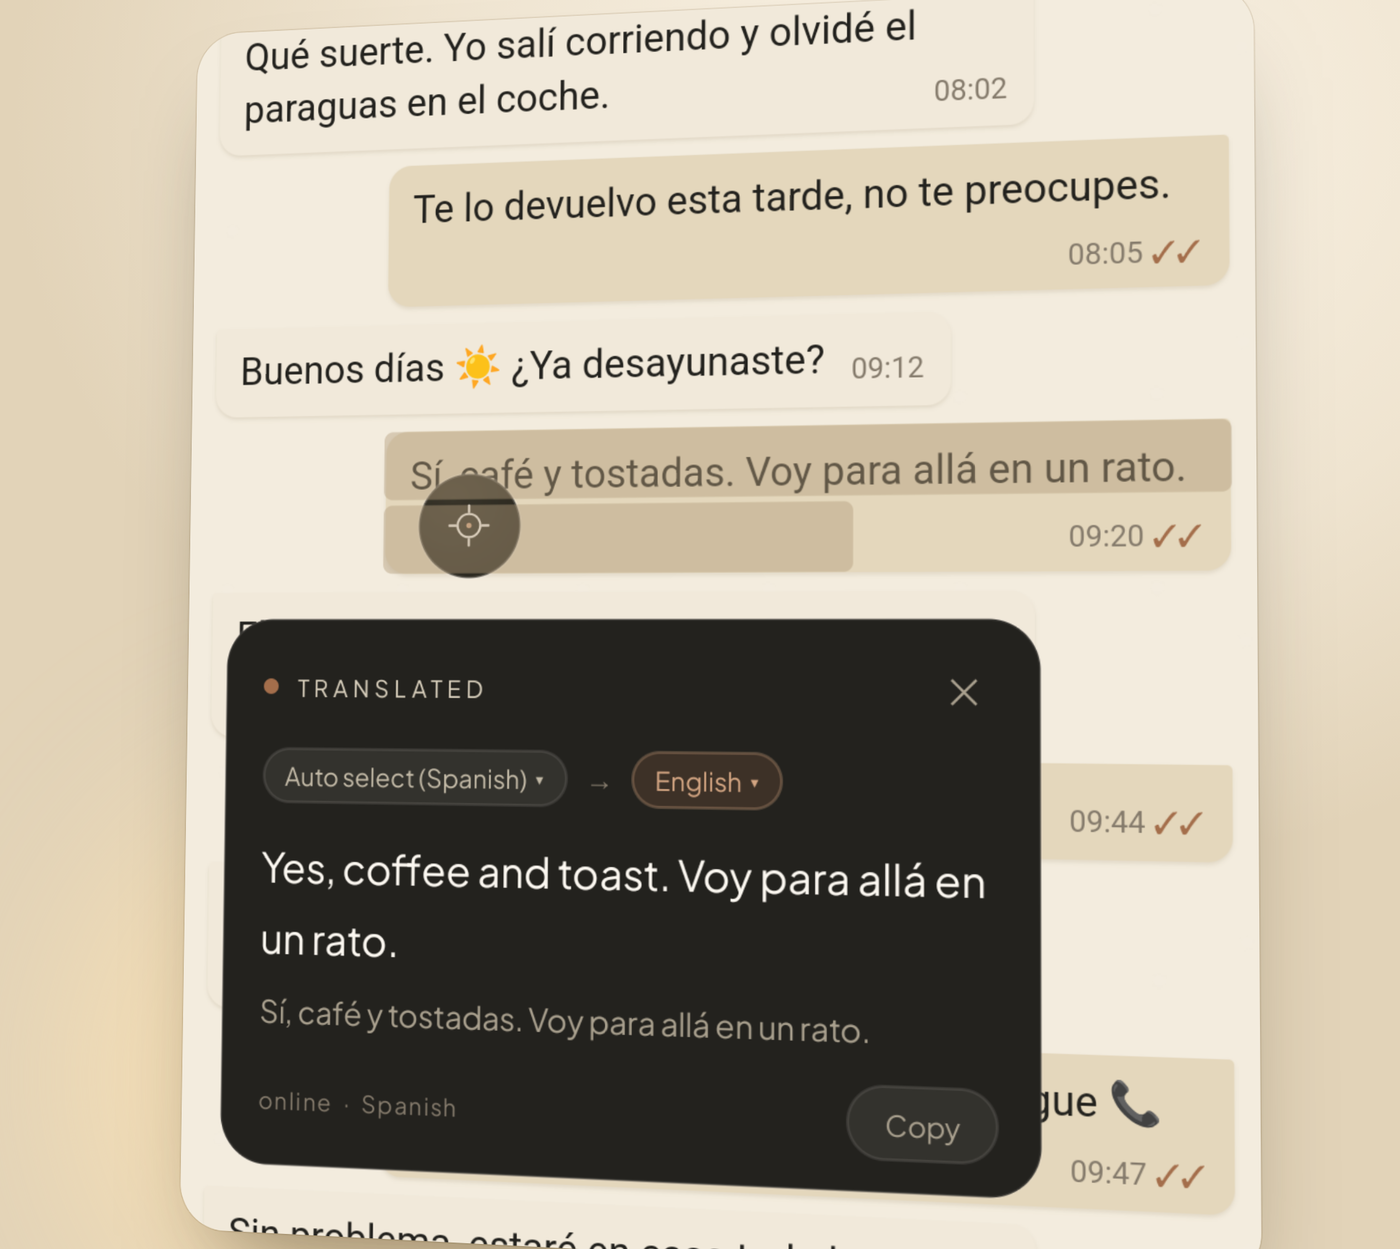
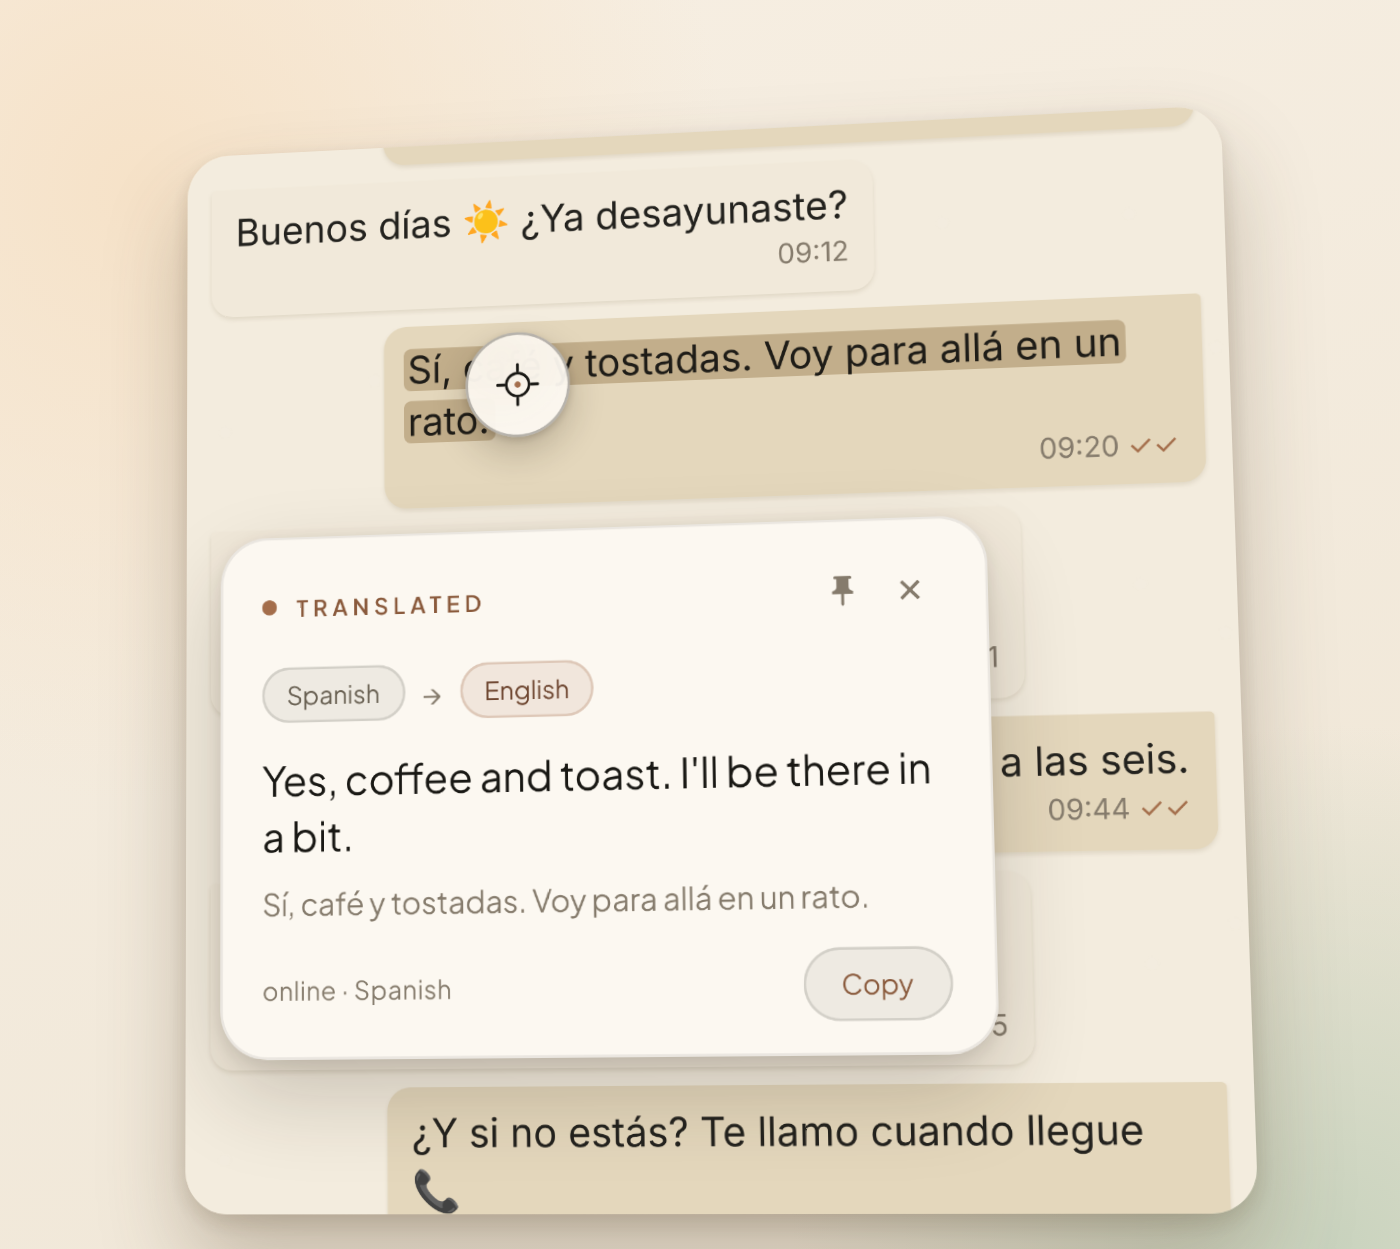
Redraw the README's lens shots on an Android phone with the new light card (#17)
The mockups still showed the dark card, an iPhone frame with its status
bar, and the old coloured call icons in the demo chat. They now use the
demo chat as the app ships it (one-colour line icons), the light card the
lens opens today, and a plain Android frame with no status bar. The app's
own screens move into one framed row, and the text calls the wash sand
and the accent clay instead of mint, which the app no longer draws.

diff --git a/README.md b/README.md
@@ -29,17 +29,17 @@ Lucid is not a split-screen translator and not a screenshot tool. It is a small 
 
 ## 🧭 How it works
 
-<img src="docs/screenshots/how-it-works.png" alt="Three steps: the lens resting on a chat message, the card translating it, then the translated card beside the mint-highlighted line" width="900" />
+<img src="docs/screenshots/how-it-works.png" alt="Three steps: the lens resting on a chat message, the card translating it, then the translated card beside the washed line" width="900" />
 
 1. **Drag it anywhere.** A small lens floats over every app — no split screen, no picking an app, no screenshot button. Whatever is under it when you let go is what it reads: the whole sentence, not just the word the lens happens to sit on.
 2. **It reads in place.** The words come from Android's accessibility tree, not from the framebuffer: the exact string plus the bounds of every character, which is why the highlight can sit on the glyphs instead of a rectangle around them.
-3. **The translation arrives beside it.** The line it read is washed in mint, one band per line, and the card holds the meaning with the language on each side. A press anywhere else takes both away — and the touch still reaches the app underneath.
+3. **The translation arrives beside it.** The line it read is washed in sand, one band per line, and the card holds the meaning with the language on each side. A press anywhere else takes both away — and the touch still reaches the app underneath.
 
 ## ✨ Features
 
 - **Reads the text, not the pixels** — it asks Android's accessibility tree what is at the point under the lens, so the highlight sits exactly on the words and no screen recording is involved.
 - **Works over any app** — chat apps, browsers, PDFs, settings, even a game's UI: if the app publishes text, the lens reads it.
-- **Translates in place** — the card opens beside the text you pointed at, with the read sentence washed in mint, one band per line, ending where the sentence ends.
+- **Translates in place** — the card opens beside the text you pointed at, with the read sentence washed in sand, one band per line, ending where the sentence ends.
 - **Touch anywhere and it is gone** — the card and the highlight clear together, and the touch still reaches the app underneath. That holds mid-read too: pressing outside drops the read instead of making you wait for an answer you no longer want.
 - **Tap for languages** — the lens opens the language list; the pick is saved for everything it reads next. A tap never reads.
 - **Long-press to pause** — the lens fades to a ghost until you long-press again.
@@ -75,25 +75,36 @@ Then press **Start the lens**.
 
 ## 🖼 Screenshots
 
-| The lens on a message — the card holds the translation | The app: the lens, and the pages behind it |
-| --- | --- |
-| <img src="docs/screenshots/chat.png" alt="Lucid's lens on a Spanish chat message with the English translation card open" width="420" /> | <img src="docs/screenshots/home-light.png" alt="Lucid's home screen: auto-translate, engine and offline-only switches, then offline models and translation history below them" width="420" /> |
-| **Tap the lens — the language list, saved for what comes next** | **Long-press — the lens pauses to a ghost until you wake it** |
-| <img src="docs/screenshots/languages.png" alt="The language picker open over a chat, listing English, Spanish, French, German, Portuguese, Italian and Dutch" width="420" /> | *A tap opens this list and saves the pick for everything the lens reads next; a long-press parks the lens until you long-press it again.* |
+<table>
+  <tr>
+    <td align="center" width="50%"><b>The lens on a message</b><br><sub>The card holds the translation, the read line is washed</sub></td>
+    <td align="center" width="50%"><b>Tap the lens</b><br><sub>The language list, saved for everything it reads next</sub></td>
+  </tr>
+  <tr>
+    <td><img src="docs/screenshots/chat.png" alt="Lucid's lens on a Spanish chat message with the English translation card open beside it" /></td>
+    <td><img src="docs/screenshots/languages.png" alt="The language list open over a chat: English ticked, then Español, Deutsch, Français, Italiano and Português" /></td>
+  </tr>
+</table>
 
-**First run** — one screen and one tap before the lens can float:
+<p align="center"><sub>A long-press parks the lens as a ghost until you long-press it again.</sub></p>
 
-| Welcome — tap the lens to begin | The same home screen at night |
-| --- | --- |
-| <img src="docs/screenshots/welcome.png" alt="Lucid's welcome screen: the lens mark inside a breathing ring, with Tap the lens to begin under it" width="420" /> | <img src="docs/screenshots/home-dark.png" alt="Lucid's home screen in the dark palette, with the same lens switches and pages" width="420" /> |
+**The app** — one screen to start, every switch in one place, light or dark by hand:
+
+<p align="center">
+  <img src="docs/screenshots/app-screens.png" alt="Three phones: Lucid's welcome screen, the home screen in the light palette, and the same home screen at night" width="900" />
+</p>
 
 **Closer in** — the wash covers exactly the line that was read, and the card's footer says which engine answered:
 
-<img src="docs/screenshots/close-up.png" alt="Close-up of the lens on a highlighted Spanish line and the translation card with its online · Spanish footer" width="600" />
+<p align="center">
+  <img src="docs/screenshots/close-up.png" alt="Close-up of the lens on a washed Spanish line and the translation card with its online · Spanish footer" width="620" />
+</p>
 
 **Two surfaces at once** — the app behind, a translated chat in front:
 
-<img src="docs/screenshots/duo.png" alt="Lucid's start screen and a chat with the translation card, on two phones" width="740" />
+<p align="center">
+  <img src="docs/screenshots/duo.png" alt="Lucid's home screen and a chat with the translation card, on two phones" width="760" />
+</p>
 
 ## 🎯 How it reads your screen
 
@@ -126,7 +137,7 @@ The engine hands back the reading of the whole sentence in Latin letters (`Kono 
 
 The respelling is a conversion, not a dictionary: particles are matched by sound (は is spoken わ) and long vowels spelled out (ō → おう, so 学校 → がっこう). It knows that "nihon" is にほん, never that 日本 is read that way. On-device mode publishes no reading at all, so the card is plain there — this needs **ENGINE: Online**.
 
-Japanese is also written without spaces, so underneath the original the card grows a short list — one word per line, the word in mint, its meaning beside it:
+Japanese is also written without spaces, so underneath the original the card grows a short list — one word per line, the word in clay, its meaning beside it:
 
 ```
 日本語        Japanese
@@ -139,7 +150,7 @@ The split comes from the writing itself, not from a dictionary of the language: 
 
 Both chips in the card are live: tap the target chip (`English ▾`) to translate the same text into another language, or the source chip (`Japanese ▾`, which also offers *Auto detect*) if the language was guessed wrong. The sheet dims the screen and closes itself when you pick.
 
-The change applies to **that card only** — the footer gains a `temporary` marker and the target chip loses its mint fill. Nothing is saved: drag the lens to the next thing and it translates into the language chosen in the app again. For a change that sticks, tap the lens itself — that list saves what you pick — or use `TRANSLATE INTO → Change` in the app.
+The change applies to **that card only** — the footer gains a `temporary` marker and the target chip loses its clay fill. Nothing is saved: drag the lens to the next thing and it translates into the language chosen in the app again. For a change that sticks, tap the lens itself — that list saves what you pick — or use `TRANSLATE INTO → Change` in the app.
 
 ### Screen capture (optional)
 
@@ -177,7 +188,7 @@ android/                      the app
     MainActivity.kt              permissions + start/stop the lens
     LensService.kt               foreground service: bubble, selection, card, pipeline
     LensAccessibilityService.kt  "what text is at this point?" via the a11y tree
-    HighlightView.kt             the mint selection wash, one band per line
+    HighlightView.kt             the sand selection wash, one band per line
     Romaji.kt                    romaji -> hiragana, for the readings
     Furigana.kt                  lines a reading up with the kanji it belongs to
     RubyTextView.kt              keeps room above the line and draws that kana there
